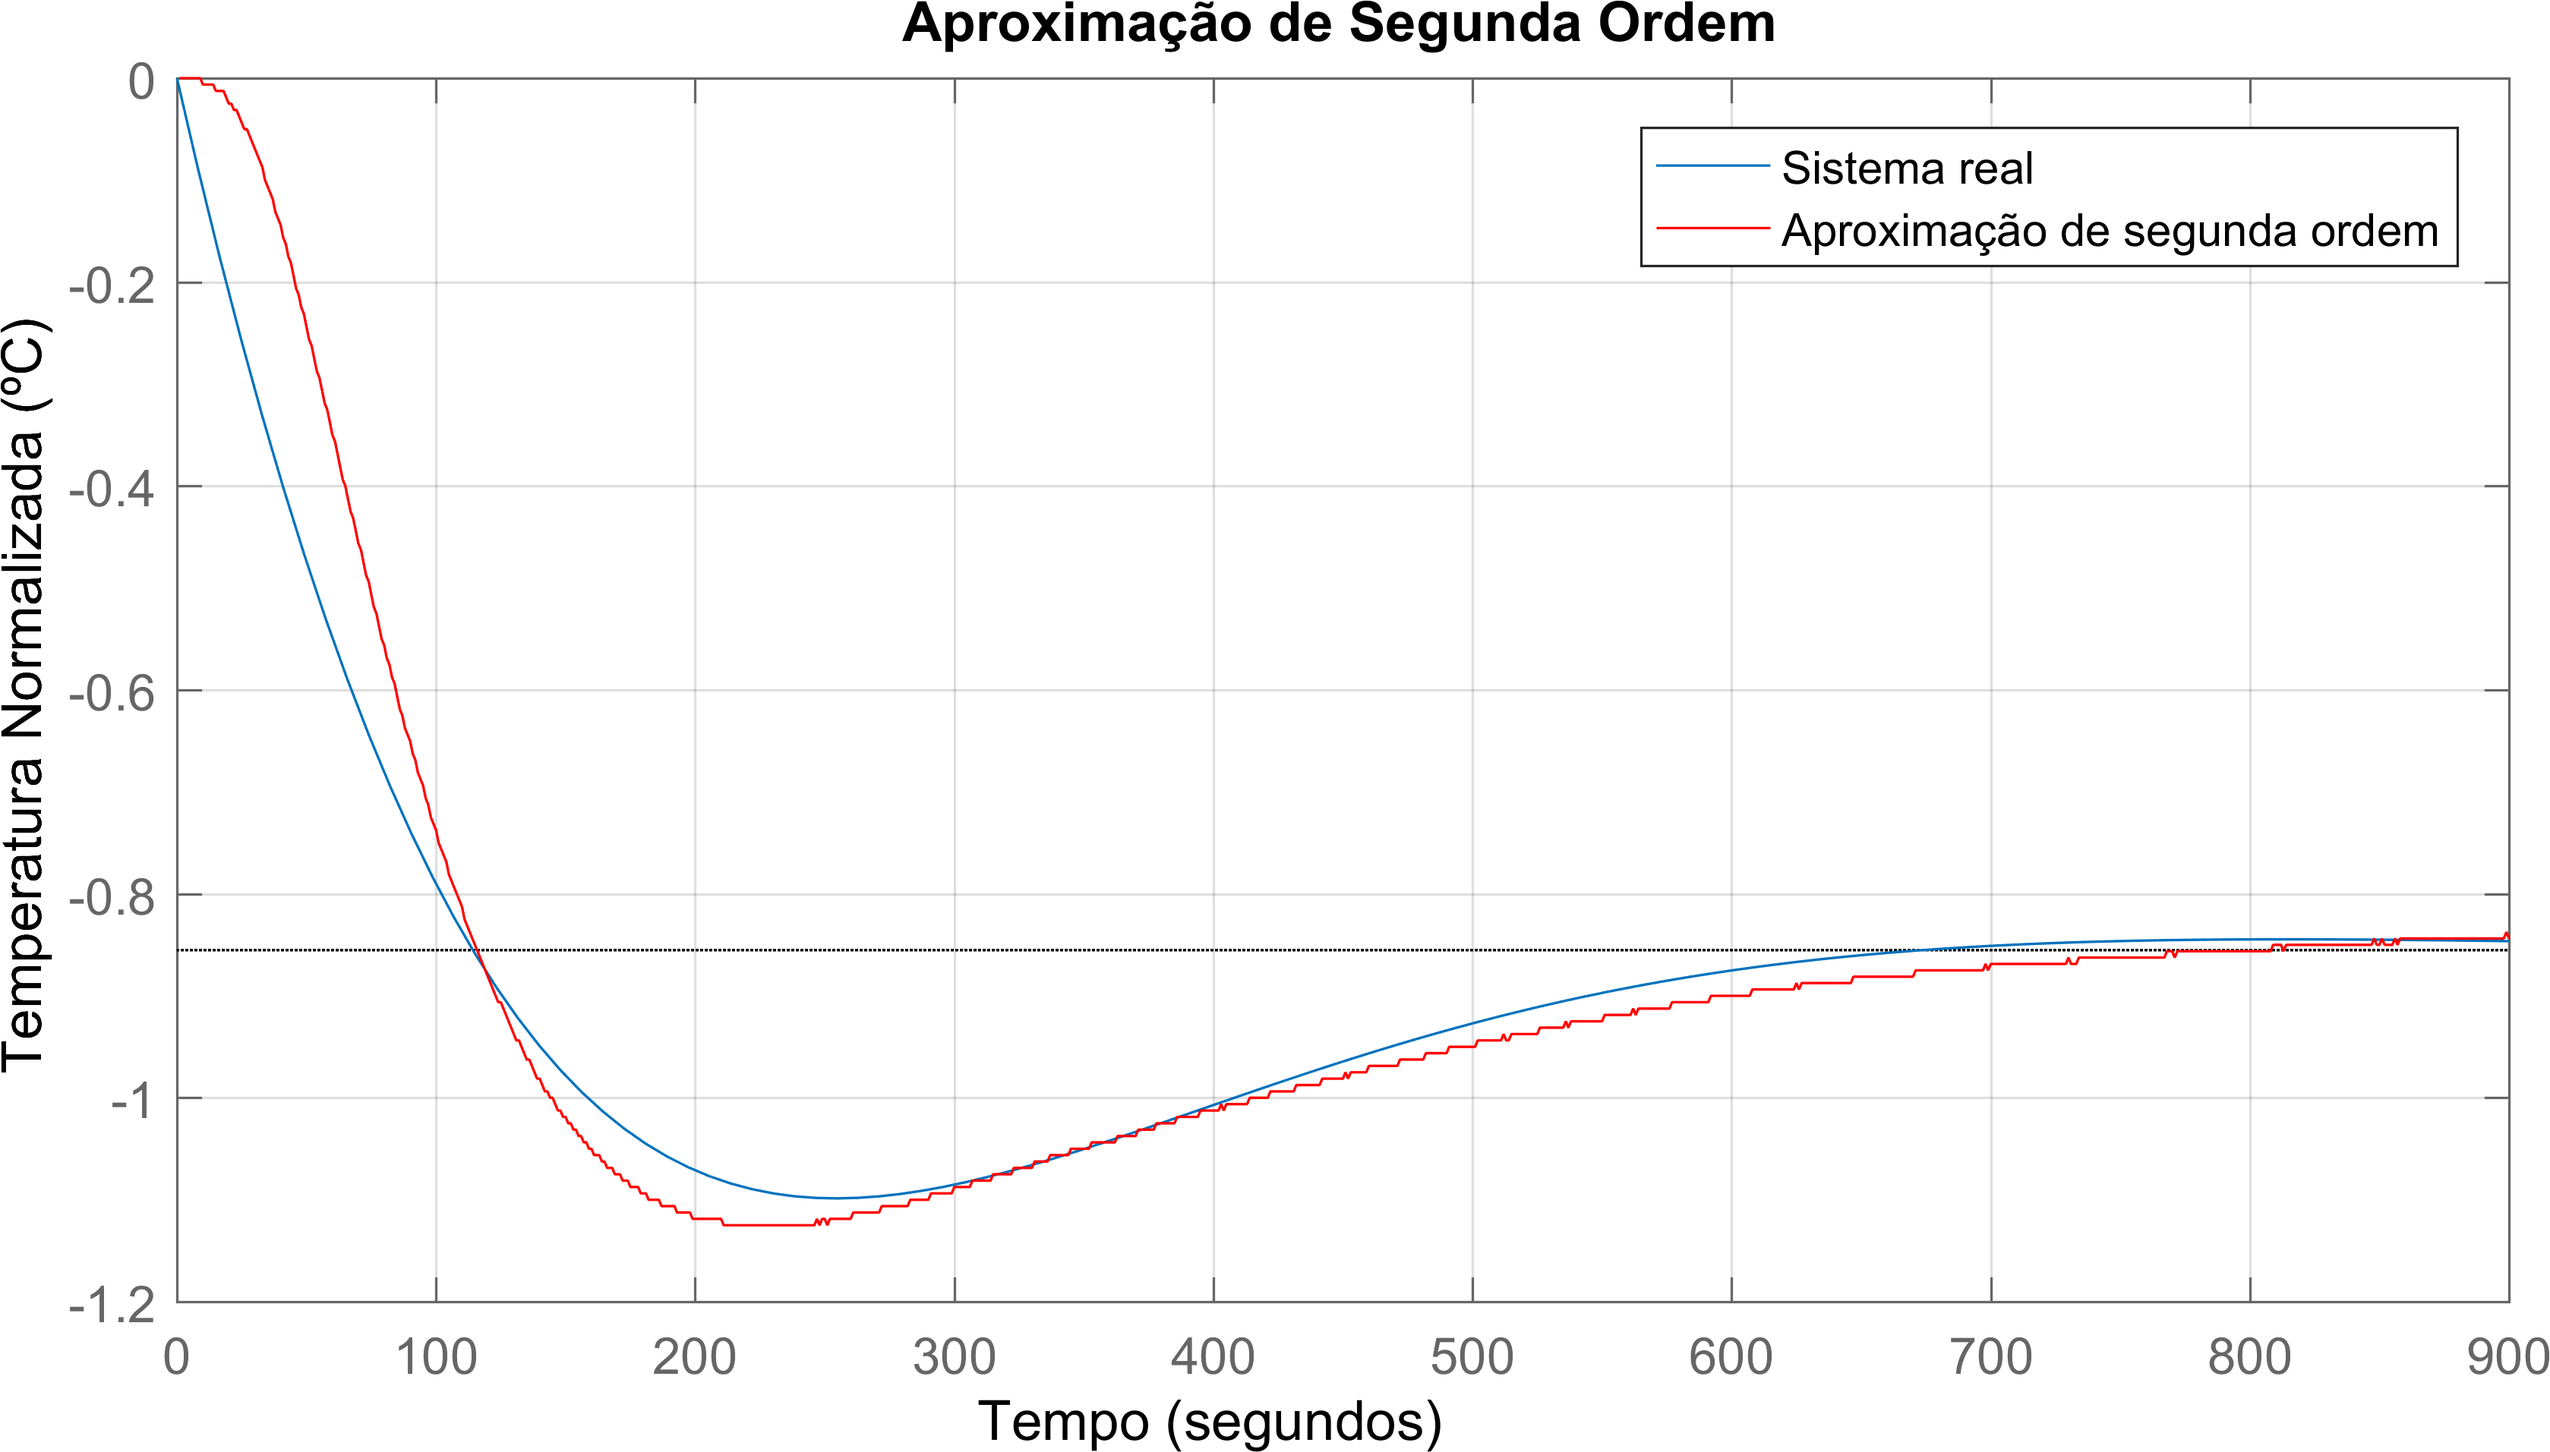
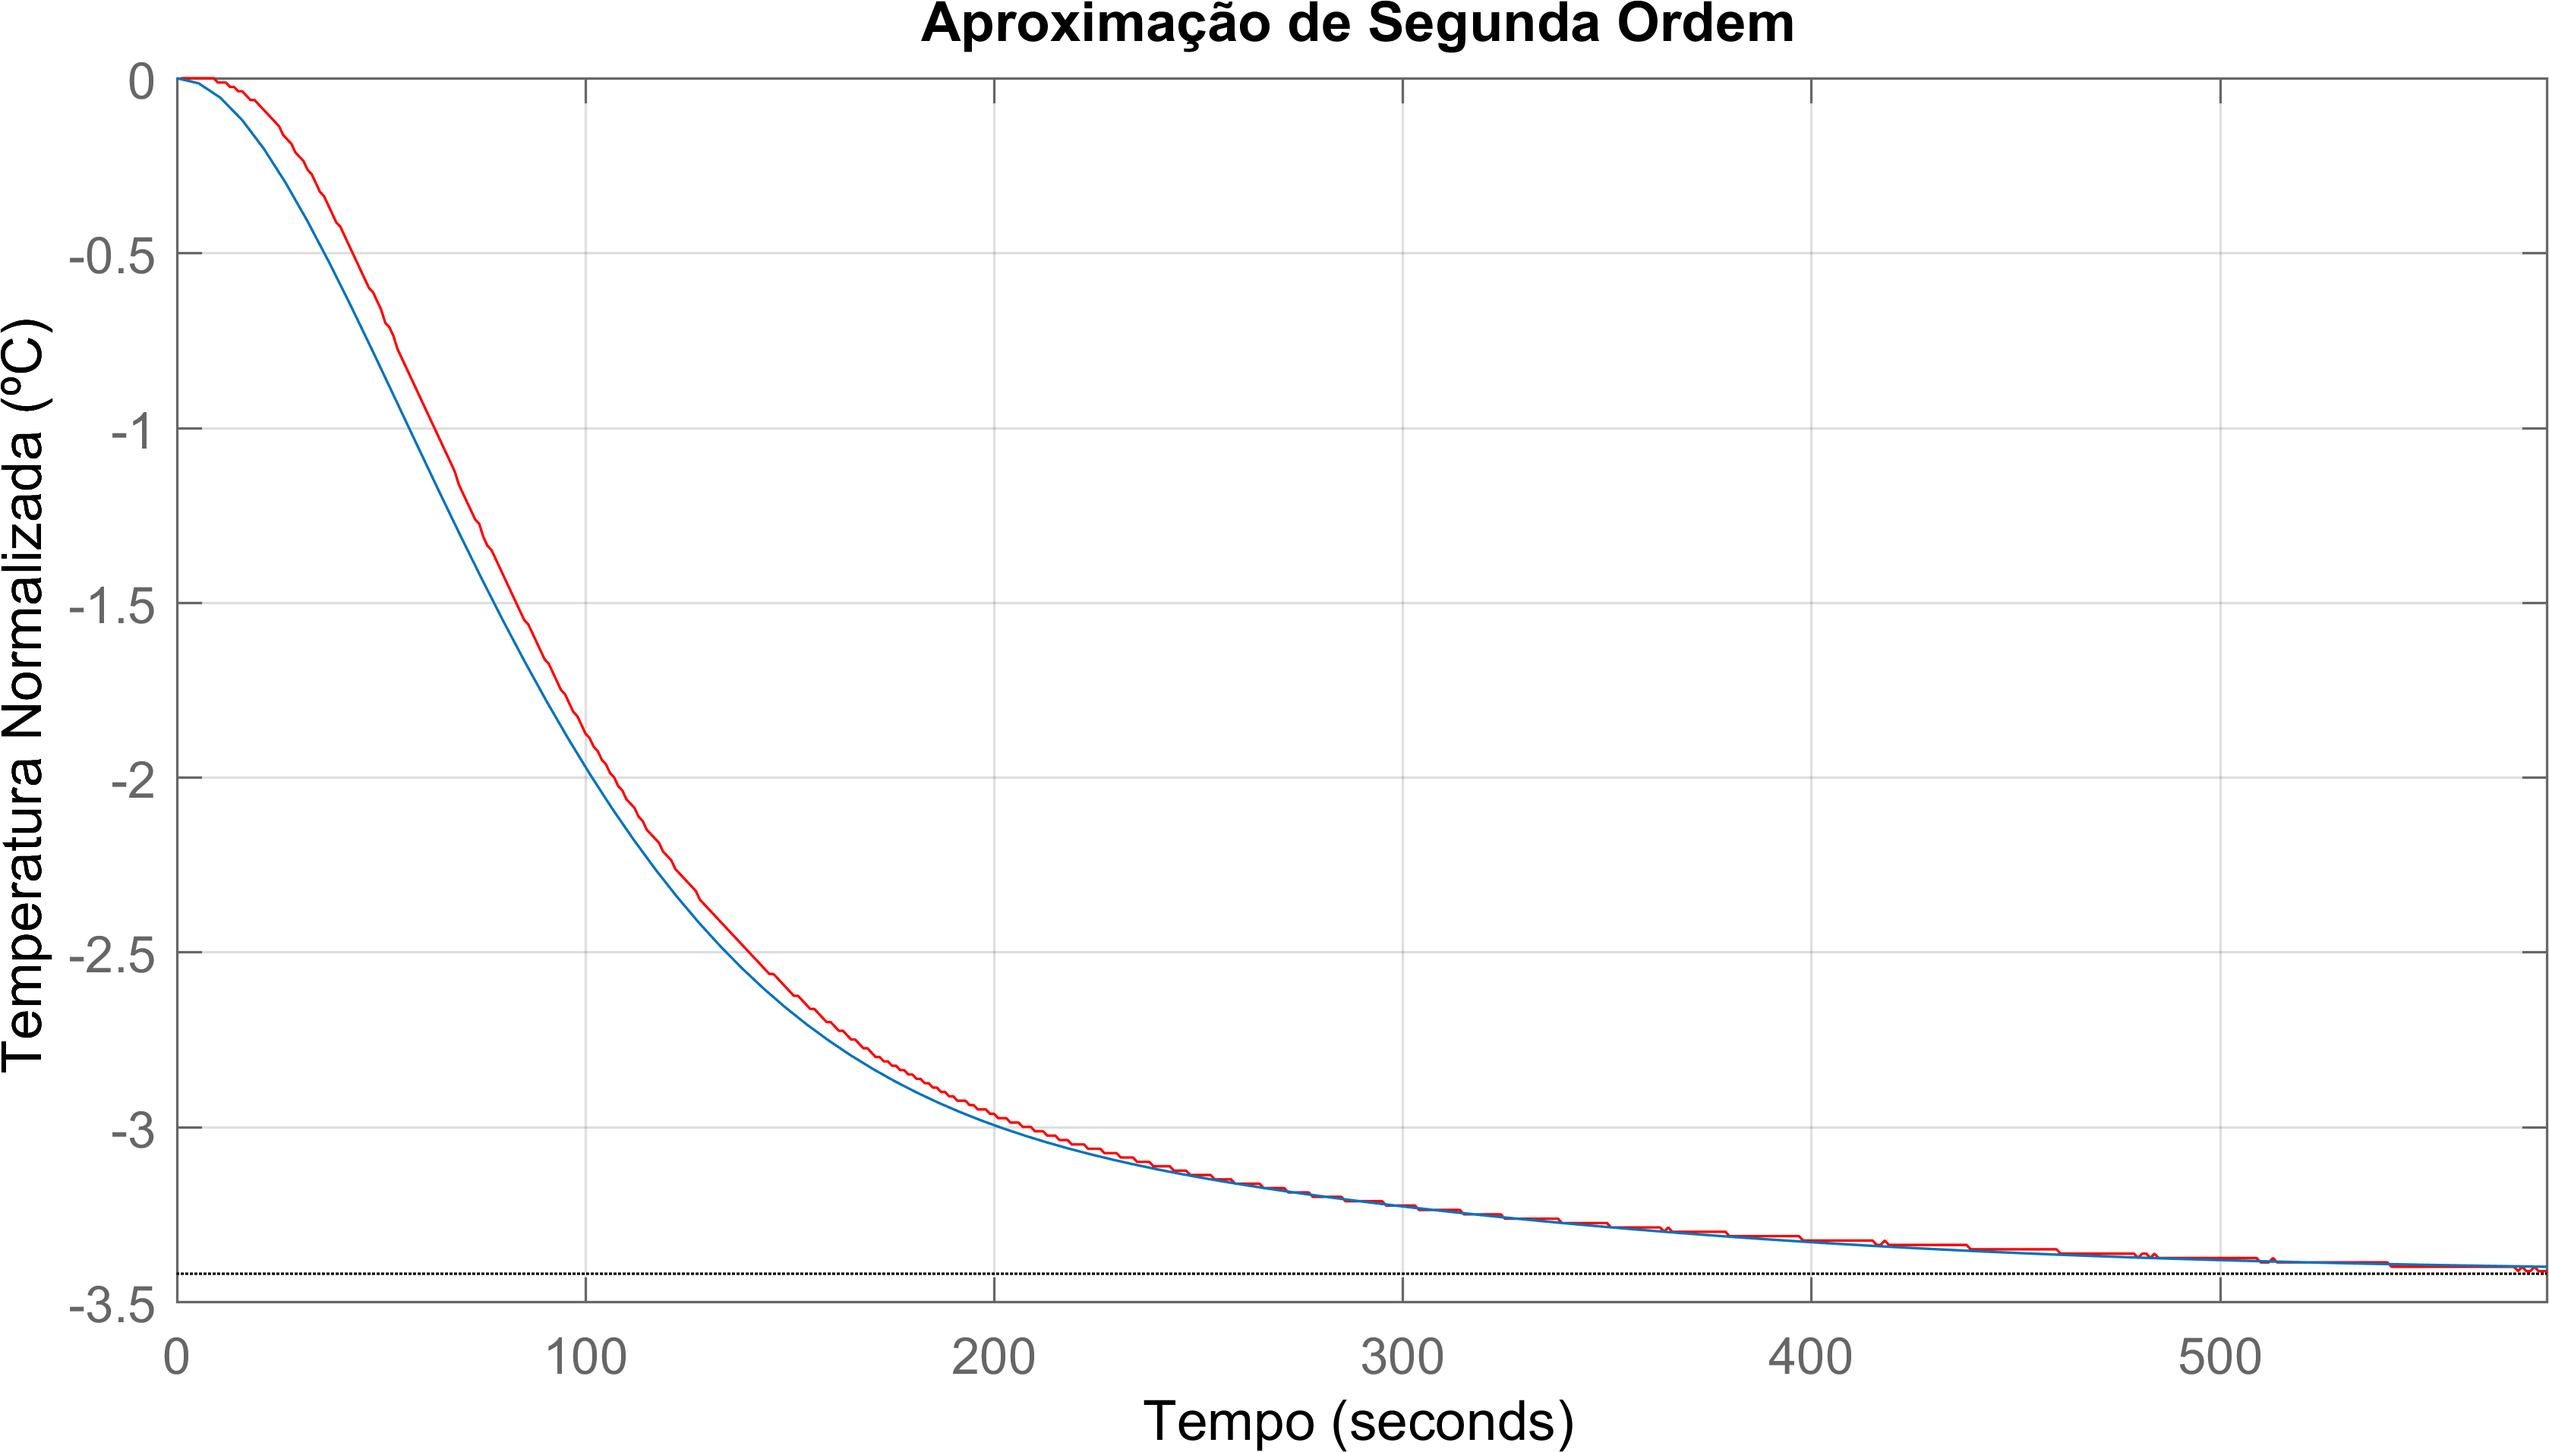
Changed model to correct one.

diff --git a/posts/exp/exp3.md b/posts/exp/exp3.md
@@ -18,7 +18,7 @@ Esse experimento parte pra outra abordagem, que é a identificação dos parâme
 
 # Teste com o degrau
 
-Para inserir um degrau no sistema, montamos o sistema de peltier como [demonstrado na documentação da planta](/control-lab/planta2/). Utilizamos uma fonte de tensão de **10V@3A** como degrau no sistema. A tensão foi mantida constante durante todo o experimento mas a corrente variou devido às características internas da peltier.
+Para inserir um degrau no sistema, montamos o sistema de peltier como [demonstrado na documentação da planta](/control-lab/planta2/). Utilizamos uma fonte de tensão de **12V@3A** como degrau no sistema, utilizando o circuito descrito. É importante fazer a identificação com o circuito pois ele adiciona uma resistência do transistor que diminui a corrente da peltier. A tensão foi mantida constante durante todo o experimento mas a corrente variou devido às características internas da peltier.
 
 O gráfico da temperatura e os dados brutos do experimento podem ser vistos abaixo.
 
@@ -45,10 +45,11 @@ Vamos fazer um plot da resposta ao degrau. Pode-se observar que o degrau é apli
 plot(dados.time, dados.temperature); hold on;
 plot(dados.time, dados.input)
 ```
-Como só é de interesse a resposta ao degrau, vamos desconsiderar as primeiras 100 amostras. Como o sample time **Ts** é igual à 1, não iremos precisar dos dados de tempo.
+
+Como o sample time **Ts** é igual à 1, não iremos precisar dos dados de tempo.
 
 ```python
-saida = dados.temperature(100:end);
+saida = dados.temperature;
 ```
 
 Todo sistema linear apresenta ponto de equilíbrio no zero, então será preciso linearizar o sistema. Para isto, basta remover o valor de offset:
@@ -57,14 +58,14 @@ Todo sistema linear apresenta ponto de equilíbrio no zero, então será preciso
 saida = saida - saida(1);
 ```
 
-Vamos também normalizar em relação ao degrau de entrada para obter a resposta ao degrau unitário:
+Vamos também normalizar em relação ao degrau de entrada para obter a resposta ao degrau unitário. Como sabemos que o degrau aplicado pelo Arduino é de 5V, vamos modelar o sistema em torno desse valor para evitar conversões.
 
 ```python
-saida = saida/10;
+saida = saida/5;
 plot(saida);
 ```
 
-Já é possível inferir que o ganho do sistema é aproximadamente **-0.875**. É necessário agora aproximá-lo por uma função de transferência ou modelo no espaço de estados.
+Já é possível inferir que o ganho do sistema é aproximadamente **-3.5**. É necessário agora aproximá-lo por uma função de transferência ou modelo no espaço de estados.
 
 <img src="/control-lab/assets/images/exp3/step-norm.png" style="width: 80%;"/>
 
@@ -76,12 +77,12 @@ Uma alternativa é usar métodos numéricos que melhor se adequam aos dados. Pod
 
 ```python
 Ts = 1;
-tsaida = [zeros(5, 1); saida];
-tentrada = [zeros(5,1); ones(length(saida), 1)];
+tsaida = saida;
+tentrada = dados.input/5;
 data = iddata(tsaida, tentrada, Ts);
 ```
 
-É recomendado adicionar esse zero no início pela documentação da função. Com isso, podemos estimar um sistema de três polos e um zero, baseando-se na resposta desejada.
+É recomendado adicionar alguns zeros antes do degrau pela documentação da função (que os dados já possuem). Podemos inicialmente estimar um sistema de três polos e um zero, baseando-se na resposta desejada.
 
 ```python
 G = tfest(data, 3, 1)
@@ -92,12 +93,12 @@ O resultado aparenta ser bastante bom:
 ```
 
 G =
- 
+
   From input "u1" to output "y1":
-           -0.0005416 s - 1.143e-06
+            -0.001096 s - 1.629e-05
   -------------------------------------------
-  s^3 + 0.03924 s^2 + 0.0005207 s + 1.417e-06
- 
+  s^3 + 0.04304 s^2 + 0.0008624 s + 4.763e-06
+
 Continuous-time identified transfer function.
 
 Parameterization:
@@ -105,24 +106,23 @@ Parameterization:
    Number of free coefficients: 5
    Use "tfdata", "getpvec", "getcov" for parameters and their uncertainties.
 
-Status:                                          
+Status:
 Estimated using TFEST on time domain data "data".
-Fit to estimation data: 98.01% (simulation focus)
-FPE: 2.079e-05, MSE: 2.05e-05    
-
+Fit to estimation data: 99.15% (simulation focus)
+FPE: 7.844e-05, MSE: 7.639e-05
 
 ```
 
-Pode-se observar que o matching é quase perfeito dos dois sistemas (aproximação e real):
+Pode-se observar que o matching é quase perfeito dos dois sistemas (aproximação e real), mas a ordem ainda pode ser reduzida sem muita perda de informação (note que as constantes do numerador e denominador são muito pequenas).
 
 <img src="/control-lab/assets/images/exp3/comparacao.png" style="width: 80%;"/>
 
 # Aproximação de segunda ordem ordem
 
-Muitas vezes, para facilitar o projeto do controlador é necessário reduzir a ordem do sistema. Pode-se obter também um modelo reduzido, mas que não vai ser tão realista.
+Muitas vezes, para facilitar o projeto do controlador é necessário reduzir a ordem do sistema. Pode-se obter também um modelo reduzido, mas que não vai ser tão realista. Nesse caso, o modelo de segunda ordem se adequa bastante pois a dinâmica é mais simples, mas para sistemas mais complexos, o ideal é obter o menor modelo possível para controle.
 
 ```python
-G = tfest(data, 2, 1)
+G = tfest(data, 2, 0)
 ```
 
 Que dá como resultado uma aproximação pior mas com ordem reduzida.
@@ -130,11 +130,11 @@ Que dá como resultado uma aproximação pior mas com ordem reduzida.
 ```
 G =
  
-    -0.01122 s - 5.381e-05
+           -0.001532
   ---------------------------
-  s^2 + 0.01121 s + 6.293e-05
+  s^2 + 0.04669 s + 0.0004554
 
-Fit to estimation data: 84.39% (simulation focus)
+Fit to estimation data: 97.09% (simulation focus)
 ``` 
 
 <img src="/control-lab/assets/images/exp3/comparacao2.png" style="width: 80%;"/>
